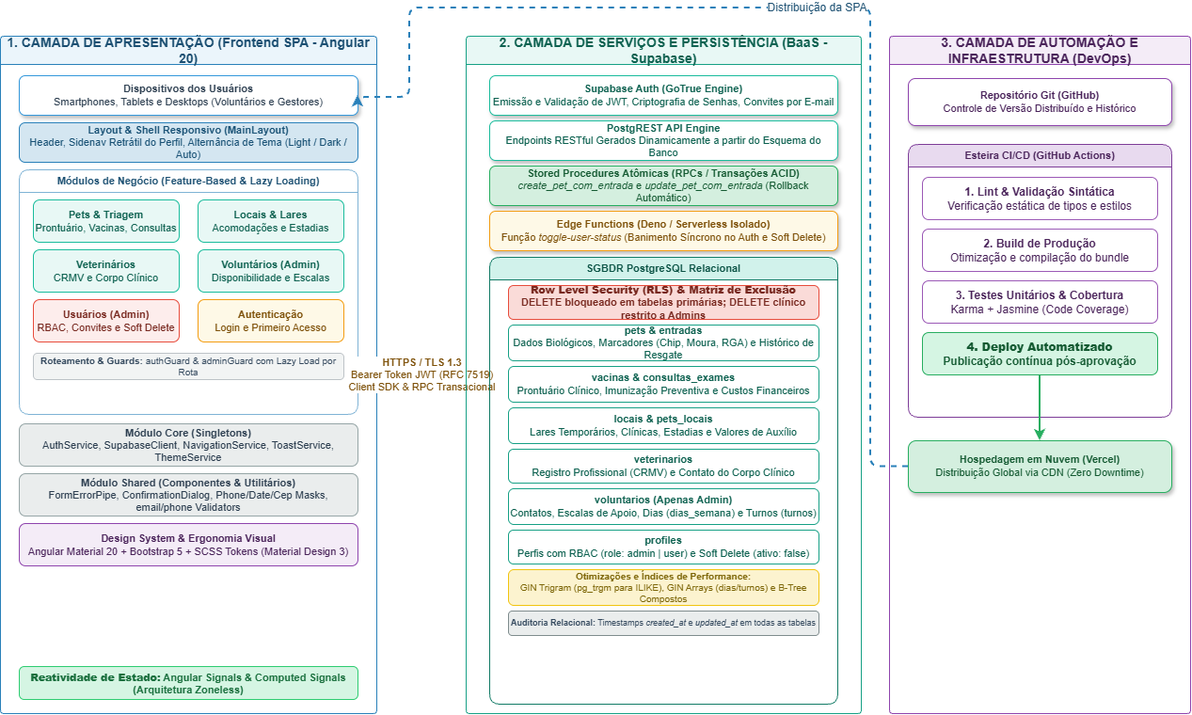
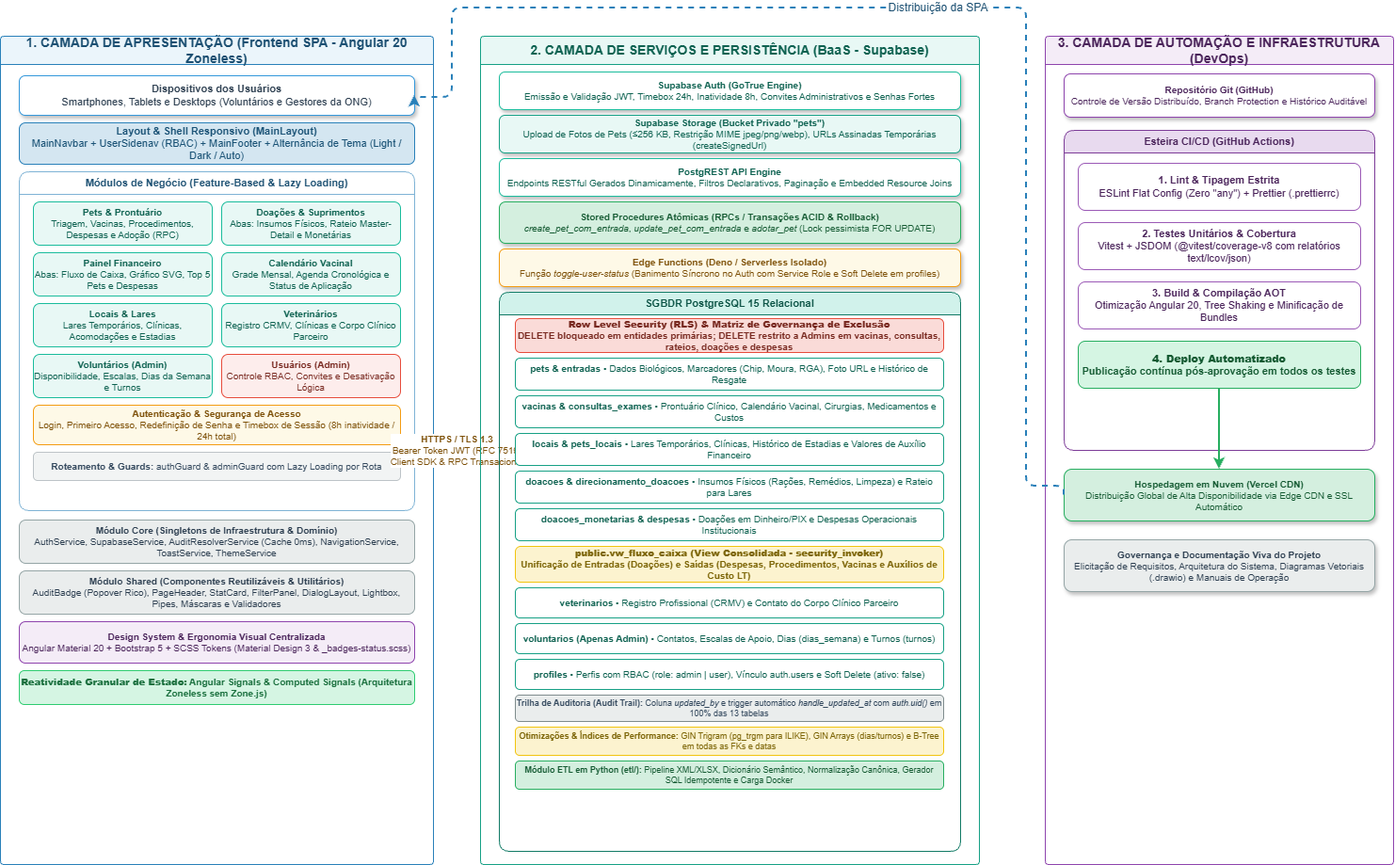
Documentação complementar

diff --git a/docs/ELICITACAO_DE_REQUISITOS.md b/docs/ELICITACAO_DE_REQUISITOS.md
@@ -184,6 +184,9 @@ O processo metodológico de Engenharia de Requisitos adotado no presente TCC bas
   - **Regras Associadas:** RN11, RN15, RN26, RN27
 
 - **[RF23] Alternância de Tema Visual (Light / Dark / Auto)**
+  - **Descrição:** O sistema deve suportar modo claro, modo escuro e s  - **Regras Associadas:** RN11, RN15, RN17, RN27, RN28
+
+- **[RF23] Alternância de Tema Visual (Light / Dark / Auto)**
   - **Descrição:** O sistema deve suportar modo claro, modo escuro e sincronização com preferência do sistema operacional, persistindo a escolha localmente.
   - **Prioridade:** Could Have (Desejável)
   - **Regras Associadas:** RNF01, RNF07
@@ -239,18 +242,18 @@ O processo metodológico de Engenharia de Requisitos adotado no presente TCC bas
 - **[RF31] Registro e Controle de Doações de Insumos Recebidos**
   - **Descrição:** O sistema deve permitir o cadastro e gerenciamento de doações físicas/materiais recebidas pela ONG (rações, cobertores, medicamentos, insumos de limpeza), armazenando: Tipo de Doação (obrigatório, máx. 50 caracteres, com autocomplete e botões de seleção rápida para: Ração, Medicamento, Material de Limpeza, Cobertores/Camas, Acessórios, Outro), Nome do Doador (pessoa física ou jurídica, obrigatório, máx. 50 caracteres), Telefone de Contato (opcional, com máscara e link direto para WhatsApp), Volume Total Arrecadado (decimal 10,2 positivo) e Unidade de Medida (obrigatório, máx. 10 caracteres, com botões de seleção rápida para: kg, litros, un, sacos, pacotes, caixas, latas, fardos).
   - **Prioridade:** Must Have (Essencial)
-  - **Regras Associadas:** RN17, RN24
+  - **Regras Associadas:** RN17, RN23, RN24
 
 - **[RF32] Rateio e Direcionamento de Doações para Locais Parceiros (`direcionamento_doacoes`)**
   - **Descrição:** Permitir a distribuição fracionada ou integral dos insumos de uma doação para os locais de acolhimento cadastrados (`public.locais`), associando o Local de Destino e o Volume Destinado. A interface deve prover validação instantânea para que o volume a direcionar não ultrapasse o saldo livre da doação de origem, oferecendo atalho para alocação do saldo total restante em um clique. A exclusão física ou estorno de direcionamentos de doações é restrita a usuários com perfil de Administrador (`admin`), com botões desabilitados e salvaguarda imperativa para operadores comuns.
   - **Prioridade:** Must Have (Essencial)
-  - **Regras Associadas:** RN16, RN24, RN25, RN27
+  - **Regras Associadas:** RN16, RN23, RN24, RN25, RN27
 
 - **[RF33] Painel Master-Detail e Visão Consolidada de Insumos por Local**
   - **Descrição:** O sistema deve disponibilizar aba própria na navegação principal (`/doacoes`) composta por visões operacionais isoladas através do padrão de composição de abas (_Smart Tabs Composition_ com renderização preguiçosa `matTabContent` e controle reativo de aba ativa): (1) Aba "Doações e Rateio" (`DoacoesInsumosTabComponent`) com listagem mestre de doações, filtros de busca por Doador/Telefone/Unidade, filtro de status de saldo (100% Livre, Parcial, Esgotada), KPIs em tempo real, barra de progresso visual de distribuição e expansão inline (Master-Detail) revelando os locais atendidos com opções de edição de volume e estorno; e (2) Aba "Direcionamentos por Local" (`DoacoesDirecionamentosTabComponent`), apresentando a tabela intermediária consolidada com filtro por local parceiro para auditoria do total de insumos que cada abrigo ou clínica já recebeu da ONG.
   - **Otimização de Requisições HTTP Sob Demanda (Lazy Tab Loading):** As abas do módulo de doações não exibem contadores numéricos estáticos no cabeçalho, eliminando chamadas antecipadas em lote na inicialização da página. Cada subcomponente de aba é responsável exclusivamente por suas próprias consultas HTTP (`fetchDoacoes`, `fetchDoacoesMonetarias` ou `fetchDirecionamentos` e `fetchLocais`), disparando a carga somente quando a respectiva aba for selecionada pelo usuário.
   - **Prioridade:** Must Have (Essencial)
-  - **Regras Associadas:** RN24, RN25
+  - **Regras Associadas:** RN23, RN24, RN25
 
 - **[RF34] Registro e Controle Financeiro de Doações Monetárias (`public.doacoes_monetarias`)**
   - **Descrição:** O sistema deve disponibilizar aba dedicada "Doações em Dinheiro" (`DoacoesMonetariasTabComponent`) no módulo de doações (`/doacoes`) para gerenciamento de contribuições financeiras recebidas pela instituição (via PIX, dinheiro ou transferência bancária), armazenando: Valor Doado (decimal 10,2 estritamente positivo, obrigatório), Nome do Doador (obrigatório, máx. 50 caracteres), Telefone de Contato (opcional, com máscara, cópia rápida e link direto para WhatsApp), Data da Doação (date, padrão data corrente) e Observações/Finalidade (opcional, máx. 255 caracteres).
@@ -365,7 +368,7 @@ O processo metodológico de Engenharia de Requisitos adotado no presente TCC bas
   Todo local parceiro deve possuir endereço estruturado (logradouro, número, bairro, cidade, estado e CEP) para facilitar a logística de transporte e visitas de inspeção do bem-estar animal.
 
 - **[RN17] Auditoria Automática de Criação, Modificação e Autoria (`Audit Trail` e `updated_by`):**  
-  Todas as entidades do banco de dados relacional (`profiles`, `pets`, `entradas`, `veterinarios`, `vacinas`, `consultas_exames`, `locais`, `doacoes`, `direcionamento_doacoes`, `pets_locais`, `voluntarios` e `doacoes_monetarias`) implementam os atributos de auditoria `created_at`, `updated_at` e `updated_by` (`uuid references public.profiles(id) on delete set null default auth.uid()`), garantindo integridade temporal e autoria em conformidade com governança de dados.
+  Todas as 13 entidades do banco de dados relacional (`profiles`, `pets`, `entradas`, `veterinarios`, `vacinas`, `consultas_exames`, `locais`, `doacoes`, `direcionamento_doacoes`, `pets_locais`, `voluntarios`, `doacoes_monetarias` e `despesas`) implementam os atributos de auditoria `created_at`, `updated_at` e `updated_by` (`uuid references public.profiles(id) on delete set null default auth.uid()`), garantindo integridade temporal e autoria em conformidade com governança de dados.
   - **Automação via Trigger Central (`handle_updated_at`):**
     - **No `INSERT`:** O campo `updated_by` é preenchido nativamente com o UUID do usuário logado via `default auth.uid()`.
     - **No `UPDATE`:** O trigger central atualiza de forma autônoma:
@@ -411,6 +414,14 @@ O processo metodológico de Engenharia de Requisitos adotado no presente TCC bas
   - **Diferenciação Visual e Operacional:** Toda vacina cadastrada possui `data_prevista` mandatória. Vacinas cuja `data_aplicacao` seja nula constam como **Previstas / Pendentes** (se `data_prevista < data_atual`, são computadas e sinalizadas como **Atrasadas** em destaque de alerta). Quando o campo `data_aplicacao` é preenchido, a vacina adquire o status **Aplicada**, sendo visualmente identificada por uma badge verde e ícone de verificação.
   - **Ação Rápida de Aplicação:** A interface do calendário e do prontuário deve disponibilizar mecanismo de aplicação rápida ("Aplicar Hoje"), atribuindo automaticamente a data corrente à `data_aplicacao` e persistindo a alteração no banco de dados.
   - **Atualização Reativa de Calendário:** A confirmação ou desmarcação de aplicação de uma vacina via `VacinaDialogComponent` ou ação rápida deve refletir instantaneamente nas métricas (KPIs de previstas, aplicadas e atrasadas) e nos chips visuais do calendário sem recarga de página.
+
+- **[RN23] Padronização de Insumos, Unidades de Medida e Classificação Dinâmica de Saldo de Doações:**
+  - **Tipos de Doação Homologados:** O cadastro e a filtragem de doações físicas de insumos (`public.doacoes`) adota categorização semântica padronizada através da coluna `tipo_doacao` (máx. 50 caracteres), oferecendo botões de seleção rápida e autocomplete para: `'Ração'`, `'Medicamento'`, `'Material de Limpeza'`, `'Cobertores/Camas'`, `'Acessórios'` e `'Outro'`.
+  - **Volume Não-Negativo e Unidades de Medida Padronizadas:** O volume total arrecadado (`volume`) deve ser estritamente superior a zero ($> 0$, com restrição `CHECK` no PostgreSQL e validadores reativos no formulário), atrelado obrigatoriamente a uma unidade de medida (`unidade_medida`: `'kg'`, `'litros'`, `'un'`, `'sacos'`, `'pacotes'`, `'caixas'`, `'latas'`, `'fardos'`).
+  - **Computação Reativa e Classificação de Saldo:** O sistema calcula em tempo real o saldo disponível para rateio (Saldo Livre = 	Volume Total - Volumes já Direcionados) e o percentual de distribuição (%Distribuído = Volumes Direcionados*100/Volume Total), classificando e sinalizando visualmente cada doação em três estados operacionais:
+    - **100% Livre:** Nenhum direcionamento realizado (Volume Direcionado = 0). Identificada por badge verde de disponibilidade total.
+    - **Parcial:** Fração do insumo distribuída, restando saldo disponível para outros locais parceiros (Volume Direcionado< Volume Total). Identificada por badge amarela/laranja e barra de progresso proporcional de rateio.
+    - **Esgotada:** Volume arrecadado integralmente distribuído para os locais parceiros (Volume Direcionado=Volume Total). Identificada por badge cinza discreta, bloqueando novos direcionamentos.
 
 - **[RN24] Validação de Limites de Rateio de Doações e Consistência de Volume:**
   - **Saldo Não-Negativo:** O volume direcionado a um local parceiro não pode ser superior ao saldo livre restante da doação ($\text{Volume a Direcionar} \le \text{Volume Total} - \sum \text{Volumes já Direcionados}$). A tentativa de direcionar volume superior é bloqueada com notificação visual explicativa.
@@ -477,18 +488,18 @@ O processo metodológico de Engenharia de Requisitos adotado no presente TCC bas
 |   **RF19**   | Histórico de estadias (`pets_locais`)                                   |       RN15, RN16       |          RNF01, RNF04           | `pets_locais`, `locais`                                                                          | `PetLocaisCardComponent`, `PetLocalFormComponent`, `PetsLocaisService`                                                                                                               |
 |   **RF20**   | Cadastro de veterinários                                                |       RN14, RN17       |          RNF01, RNF08           | `veterinarios`                                                                                   | `VeterinarioFormComponent`, `VeterinariosService`                                                                                                                                    |
 |   **RF21**   | Listagem de veterinários                                                |          RN14          |          RNF01, RNF04           | `veterinarios`                                                                                   | `VeterinarioListComponent`, `VeterinariosService`                                                                                                                                    |
-|   **RF22**   | Totalizador financeiro reativo                                          |       RN11, RN15       |              RNF04              | `vacinas`, `consultas_exames`, `pets_locais`                                                     | `PetDetailComponent`, `PetDetailHeaderComponent (Computed Signals)`                                                                                                                  |
+|   **RF22**   | Totalizador financeiro reativo e despesas vinculadas                    | RN11, RN15, RN17, RN27, RN28 |              RNF04              | `vacinas`, `consultas_exames`, `pets_locais`, `despesas`                                         | `PetDetailComponent`, `PetDetailHeaderComponent`, `PetDespesasCardComponent`, `DespesasService`                                                                                     |
 |   **RF23**   | Alternância de tema Light/Dark                                          |      RNF01, RNF07      |              RNF07              | `LocalStorage`                                                                                   | `ThemeService`, `MainLayoutComponent`, `MainNavbarComponent`, `UserSidenavComponent`                                                                                                 |
 |   **RF24**   | Navegação inteligente com retorno                                       |         RNF01          |              RNF01              | Memória de Roteamento                                                                            | `NavigationService`                                                                                                                                                                  |
 |   **RF25**   | Cadastro de voluntários e disponibilidades                              |       RN17, RN19       |       RNF01, RNF04, RNF08       | `voluntarios`                                                                                    | `VoluntarioDialogComponent`, `VoluntariosService`                                                                                                                                    |
 |   **RF26**   | Listagem e filtros de voluntários                                       |          RN19          |       RNF01, RNF03, RNF04       | `voluntarios`                                                                                    | `VoluntarioListComponent`, `VoluntariosService`                                                                                                                                      |
 |   **RF27**   | Edição e exclusão de voluntários                                        |       RN17, RN19       |          RNF01, RNF08           | `voluntarios`                                                                                    | `VoluntarioDialogComponent`, `VoluntarioListComponent`                                                                                                                               |
-|   **RF28**   | Relatórios gerenciais de pets e ficha individual (Excel/PDF)            |       RN07, RN08, RN11, RN12       |       RNF01, RNF04, RNF10       | `pets`, `entradas`, `vacinas`, `consultas_exames`, `despesas`                                    | `PetReportService`, `PetListComponent`, `PetDetailComponent`, `PetDetailHeaderComponent`                                                                                            |
+|   **RF28**   | Relatórios gerenciais de pets e ficha individual (Excel/PDF)            | RN07, RN08, RN11, RN12, RN13, RN15 |       RNF01, RNF04, RNF10       | `pets`, `entradas`, `vacinas`, `consultas_exames`, `despesas`                                    | `PetReportService`, `PetListComponent`, `PetDetailComponent`, `PetDetailHeaderComponent`                                                                                            |
 |   **RF29**   | Fluxo de Adoção Definitiva e Transferência Atômica                      | RN08, RN15, RN16, RN21 |   RNF01, RNF04, RNF06, RNF08    | `pets`, `pets_locais`, `RPC ('adotar_pet')`                                                      | `AdotarPetDialogComponent`, `PetDetailHeaderComponent`, `PetListComponent`, `PetsService`                                                                                            |
 |   **RF30**   | Calendário Vacinal e Gestão de Imunizações                              | RN11, RN12, RN14, RN22 |   RNF01, RNF03, RNF04, RNF08    | `vacinas`, `pets`, `veterinarios`                                                                | `CalendarioVacinalComponent`, `VacinaDialogComponent`, `PetVacinasCardComponent`, `VacinasService`                                                                                   |
-|   **RF31**   | Registro e controle de doações de insumos                               |       RN17, RN24       |       RNF01, RNF04, RNF08       | `doacoes`                                                                                        | `DoacaoDialogComponent`, `AuditBadgeComponent`, `DoacoesService`                                                                                                                     |
-|   **RF32**   | Rateio e direcionamento de doações para locais (Admin-only delete)      | RN16, RN24, RN25, RN27 |   RNF01, RNF04, RNF06, RNF08    | `direcionamento_doacoes`, `locais`, `doacoes`                                                    | `DirecionamentoDialogComponent`, `DoacoesService`, `DoacaoListComponent`                                                                                                             |
-|   **RF33**   | Painel Master-Detail e consolidado por local                            |       RN24, RN25       |       RNF01, RNF03, RNF04       | `doacoes`, `direcionamento_doacoes`, `locais`                                                    | `DoacaoListComponent`, `DoacoesService`                                                                                                                                              |
+|   **RF31**   | Registro e controle de doações de insumos                               |       RN17, RN23, RN24 |       RNF01, RNF04, RNF08       | `doacoes`                                                                                        | `DoacaoDialogComponent`, `AuditBadgeComponent`, `DoacoesService`                                                                                                                     |
+|   **RF32**   | Rateio e direcionamento de doações para locais (Admin-only delete)      | RN16, RN23, RN24, RN25, RN27 |   RNF01, RNF04, RNF06, RNF08    | `direcionamento_doacoes`, `locais`, `doacoes`                                                    | `DirecionamentoDialogComponent`, `DoacoesService`, `DoacaoListComponent`                                                                                                             |
+|   **RF33**   | Painel Master-Detail e consolidado por local                            |       RN23, RN24, RN25 |       RNF01, RNF03, RNF04       | `doacoes`, `direcionamento_doacoes`, `locais`                                                    | `DoacaoListComponent`, `DoacoesService`                                                                                                                                              |
 |   **RF34**   | Registro e controle de doações monetárias (Admin-only delete)           | RN01, RN17, RN26, RN27 |   RNF01, RNF03, RNF04, RNF06    | `doacoes_monetarias`                                                                             | `DoacaoMonetariaDialogComponent`, `DoacaoListComponent`, `AuditBadgeComponent`, `DoacoesMonetariasService`                                                                           |
 |   **RF35**   | Painel financeiro, balanço orçamentário e sustentabilidade              |    RN01, RN17, RN28    |   RNF01, RNF03, RNF04, RNF06    | `vw_fluxo_caixa`, `doacoes_monetarias`, `despesas`, `consultas_exames`, `vacinas`, `pets_locais` | `FinanceiroDashboardComponent`, `FinanceiroService`                                                                                                                                  |
 |   **RF36**   | Registro e gestão de despesas gerais da instituição (Admin-only delete) |    RN17, RN27, RN28    |   RNF01, RNF04, RNF06, RNF08    | `despesas`, `pets`                                                                               | `DespesaDialogComponent`, `DespesaDetalhesDialogComponent`, `FinanceiroDashboardComponent`, `AuditBadgeComponent`, `DespesasService`                                                 |
@@ -508,6 +519,7 @@ erDiagram
     LOCAIS ||--o{ PETS_LOCAIS : "aloca"
     LOCAIS ||--o{ DIRECIONAMENTO_DOACOES : "recebe"
     DOACOES ||--o{ DIRECIONAMENTO_DOACOES : "possui"
+    PETS ||--o{ DESPESAS : "vincula-se opcionalmente"
     VETERINARIOS ||--o{ VACINAS : "aplica"
     VETERINARIOS ||--o{ CONSULTAS_EXAMES : "realiza"
     PETS ||--o{ DESPESAS : "pode vincular"
@@ -639,41 +651,12 @@ erDiagram
 
     DOACOES {
         bigint id PK
-        decimal volume
-        string doador
-        string telefone
+        string tipo_doacao
+        decimal volume "check > 0"
         string unidade_medida
-        timestamp created_at
-        timestamp updated_at
-        uuid updated_by FK
-    }
-
-    DIRECIONAMENTO_DOACOES {
-        bigint id PK
-        bigint id_local FK
-        bigint id_doacao FK
-        decimal volume
-        timestamp created_at
-        timestamp updated_at
-        uuid updated_by FK
-    }
-
-    DOACOES_MONETARIAS {
-        bigint id PK
-        decimal valor "check > 0"
         string doador
         string telefone
-        date data_doacao
-        string observacoes
-        timestamp created_at
-        timestamp updated_at
-        uuid updated_by FK
-    }
-
-    DESPESAS {
-        bigint id PK
-        string descricao
-        string categoria
+      string categoria
         decimal valor "check > 0"
         date data_despesa
         string favorecido

diff --git a/docs/ARQUITETURA_DO_SISTEMA.md b/docs/ARQUITETURA_DO_SISTEMA.md
@@ -8,7 +8,7 @@
 **Curso:** Engenharia da Computação  
 **Trabalho de Conclusão de Curso (TCC)**  
 **Projeto:** DESENVOLVIMENTO E VALIDAÇÃO DE SOFTWARE DE GERENCIAMENTO DE DADOS CADASTRAIS DE ANIMAIS DE ONGS DE ACOLHIMENTO E TRATAMENTO DE ANIMAIS DE RUA  
-**Versão:** 1.1.0 — Outubro de 2026
+**Versão:** 1.0.0 — Outubro de 2026
 
 ---
 
@@ -31,6 +31,121 @@ Para atender aos critérios de usabilidade móvel, baixo tempo de resposta, segu
 ![Arquitetura Geral da Solução](./assets/Arquitetura%20do%20sistema.png)
 
 > 📁 **Arquivo Fonte Editável:** O arquivo de modelagem vetorial está disponível em [`docs/Arquitetura do sistema.drawio`](./Arquitetura%20do%20sistema.drawio) e pode ser aberto diretamente no [draw.io](https://app.diagrams.net/).
+
+### 2.1. Visão Sistêmica e Relacionamentos entre Componentes
+
+```mermaid
+flowchart TB
+    %% ========================================================
+    %% 1. CAMADA DE APRESENTAÇÃO (FRONTEND SPA)
+    %% ========================================================
+    subgraph FRONTEND ["1. Camada de Apresentação (Frontend SPA - Angular 20 Zoneless)"]
+        direction TB
+        DISP["📱💻 Dispositivos dos Usuários<br>Smartphones, Tablets e Desktops (Voluntários e Gestores da ONG)"]
+        
+        SHELL["Layout & Shell Responsivo (MainLayout)<br>• MainNavbarComponent (Atalhos, tema, menu de usuário)<br>• UserSidenavComponent (Navegação lateral com controle RBAC)<br>• MainFooterComponent e alternância de temas (Light / Dark / Auto)"]
+        
+        subgraph FEATS ["Módulos de Negócio (Feature-Based & Lazy Loading)"]
+            direction TB
+            F_PETS["🐾 Pets & Prontuário<br>Triagem, vacinas, procedimentos, despesas e adoção atômica"]
+            F_DOA["🎁 Doações & Suprimentos<br>Insumos físicos, rateio master-detail e doações monetárias"]
+            F_FIN["💰 Painel Financeiro<br>Fluxo de caixa consolidado, gráfico SVG, Top 5 pets e despesas"]
+            F_CAL["📅 Calendário Vacinal<br>Grade mensal, agenda cronológica e status de vacinação"]
+            F_LOC["🏠 Locais & Lares<br>Lares temporários, clínicas parceiras e estadias"]
+            F_VET["🩺 Veterinários<br>Registro profissional (CRMV) e corpo clínico"]
+            F_VOL["🤝 Voluntários (Admin)<br>Disponibilidade, escalas, dias da semana e turnos"]
+            F_USR["👥 Usuários (Admin)<br>Controle RBAC (admin/user), convites e desativação lógica"]
+            F_AUTH["🔐 Autenticação & Segurança<br>Login, primeiro acesso e timebox (8h inatividade / 24h total)"]
+        end
+
+        CORE_SRV["Módulo Core (Singletons de Infraestrutura & Domínio)<br>• AuthService & SupabaseService (Cliente PostgREST / GoTrue)<br>• AuditResolverService (Cache em memória Map 0ms para updated_by)<br>• NavigationService, ToastService e ThemeService"]
+
+        SHARED_COMP["Módulo Shared (Componentes Reutilizáveis & Utilitários)<br>• AuditBadgeComponent (Popover de autoria com perfil)<br>• PageHeader, StatCard, FilterPanel e DialogLayout<br>• ImagePreviewDialogComponent (Lightbox de fotos), Pipes e Máscaras"]
+
+        SIGNALS["⚡ Reatividade Granular: Angular Signals & Computed Signals (Arquitetura Zoneless)"]
+
+        DISP --> SHELL --> FEATS --> CORE_SRV --> SHARED_COMP --> SIGNALS
+    end
+
+    %% ========================================================
+    %% CONECTOR HTTPS / TLS
+    %% ========================================================
+    FRONTEND <-->|"HTTPS / TLS 1.3<br>Bearer Token JWT (RFC 7519)<br>PostgREST Client SDK & RPCs"| BACKEND
+
+    %% ========================================================
+    %% 2. CAMADA DE SERVIÇOS E PERSISTÊNCIA (BaaS)
+    %% ========================================================
+    subgraph BACKEND ["2. Camada de Serviços e Persistência (BaaS - Supabase)"]
+        direction TB
+        AUTH_S["Supabase Auth (GoTrue Engine)<br>Emissão/validação JWT, timebox de sessão, senhas fortes e convites"]
+        STORAGE_S["Supabase Storage (Bucket Privado 'pets')<br>Upload de fotos de animais (≤256 KB, MIME jpeg/png/webp) e URLs assinadas"]
+        POSTGREST_S["PostgREST API Engine<br>Endpoints RESTful gerados dinamicamente com filtros, paginação e embedding"]
+        
+        subgraph RPCS_BOX ["Stored Procedures Atômicas (RPCs Transacionais ACID)"]
+            RPC1["create_pet_com_entrada (Pet + Entrada atômicos)"]
+            RPC2["update_pet_com_entrada (Edição cadastral e entrada)"]
+            RPC3["adotar_pet (Lock FOR UPDATE, validação 'Disponível' e inserção em pets_locais)"]
+        end
+
+        EDGE_S["Edge Functions (Deno / Serverless Isolado)<br>toggle-user-status: Banimento síncrono no Auth com Service Role e soft delete"]
+
+        subgraph PG_BOX ["SGBDR PostgreSQL 15 Relacional"]
+            direction TB
+            RLS_POL["Row Level Security (RLS) & Governança de Exclusão<br>• RLS ativo em 100% das tabelas públicas (is_active_user / is_admin)<br>• DELETE bloqueado em entidades primárias; DELETE restrito a Admin nas intermediárias"]
+            
+            subgraph TABS_NUCLEO ["Tabelas de Núcleo e Prontuário"]
+                T_PETS["public.pets & public.entradas"]
+                T_CLIN["public.vacinas & public.consultas_exames"]
+                T_LOC["public.locais & public.pets_locais"]
+                T_VET["public.veterinarios"]
+                T_VOL["public.voluntarios"]
+                T_PRF["public.profiles"]
+            end
+
+            subgraph TABS_FIN ["Módulo Financeiro & Suprimentos"]
+                T_DOA["public.doacoes (Insumos Físicos)"]
+                T_DIR["public.direcionamento_doacoes (Rateio para Lares)"]
+                T_MON["public.doacoes_monetarias (Entradas PIX/Dinheiro)"]
+                T_DESP["public.despesas (Saídas Operacionais Gerais)"]
+                T_VIEW["public.vw_fluxo_caixa (View Consolidada security_invoker)"]
+            end
+
+            AUDIT_T["Trilha de Auditoria (updated_by + updated_at)<br>Trigger handle_updated_at automático capturando auth.uid() em 100% das 13 tabelas"]
+            INDEX_T["Otimizações & Índices: GIN Trigram (pg_trgm para buscas ILIKE), GIN Arrays e B-Tree"]
+        end
+
+        subgraph ETL_BOX ["Módulo ETL em Python (etl/)"]
+            ETL_PROC["Pipeline de Ingestão Legada: Parser XML/XLSX, Dicionário Semântico,<br>Normalização Canônica, Gerador SQL Idempotente e Carga Docker"]
+        end
+
+        AUTH_S --- POSTGREST_S --- RPCS_BOX --- EDGE_S
+        STORAGE_S --- TABS_NUCLEO
+        PG_BOX --- ETL_BOX
+    end
+
+    %% ========================================================
+    %% 3. CAMADA DE AUTOMAÇÃO E INFRAESTRUTURA (DevOps)
+    %% ========================================================
+    subgraph DEVOPS ["3. Camada de Automação e Infraestrutura (DevOps)"]
+        direction TB
+        GIT_REPO["Repositório Git (GitHub)<br>Controle de versão distribuído, branch protection e histórico auditável"]
+        
+        subgraph CICD ["Esteira CI/CD (GitHub Actions)"]
+            direction TB
+            CI_1["1. Análise Estática & Lint<br>ESLint Flat Config (Zero 'any' mandatória) + Prettier"]
+            CI_2["2. Testes Unitários & Cobertura<br>Vitest + JSDOM (@vitest/coverage-v8 com relatórios text/lcov/json)"]
+            CI_3["3. Build de Produção & AOT<br>Otimização Angular 20, tree shaking e minificação"]
+            CI_4["4. Deploy Automatizado<br>Publicação contínua pós-aprovação em todos os testes"]
+            CI_1 --> CI_2 --> CI_3 --> CI_4
+        end
+
+        HOSTING["Hospedagem em Nuvem (Vercel CDN)<br>Distribuição global de alta disponibilidade via Edge CDN e SSL automático"]
+
+        GIT_REPO --> CICD --> HOSTING
+    end
+
+    HOSTING -.->|"Distribuição da SPA via CDN"| DISP
+```
 
 ---
 
